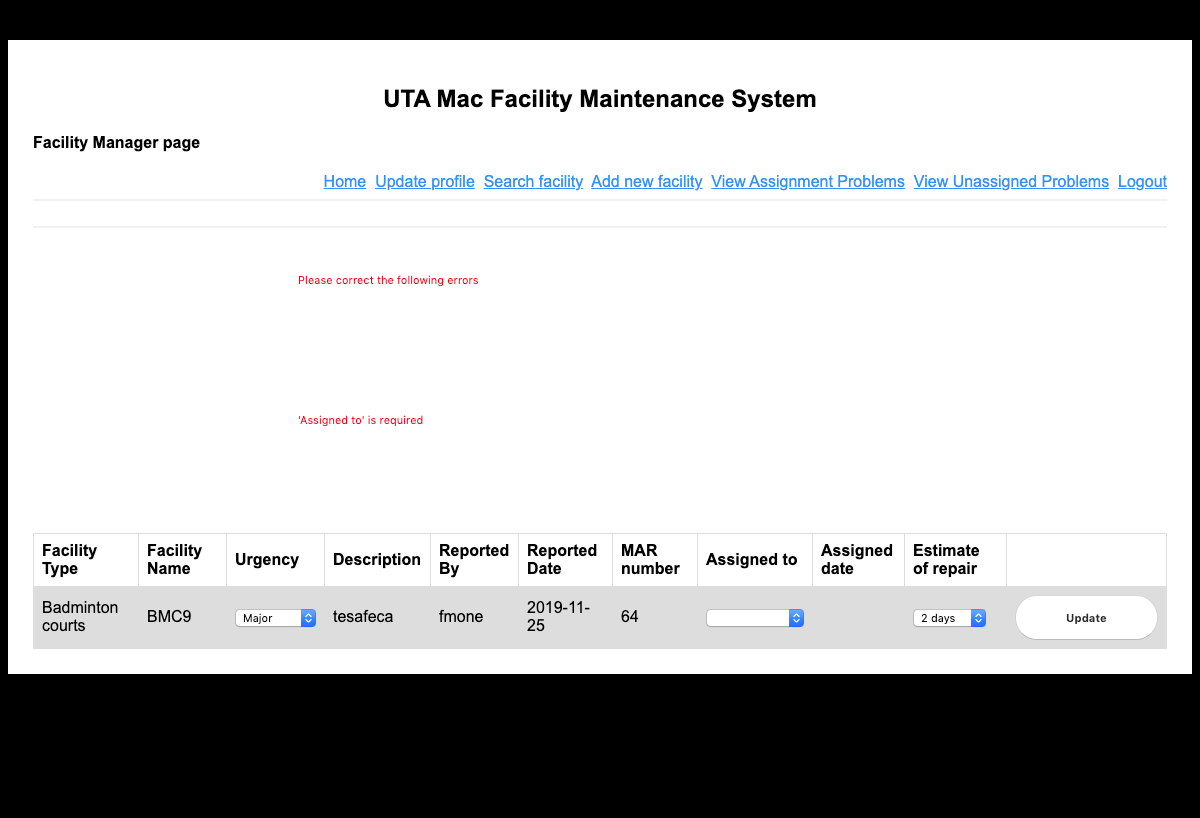
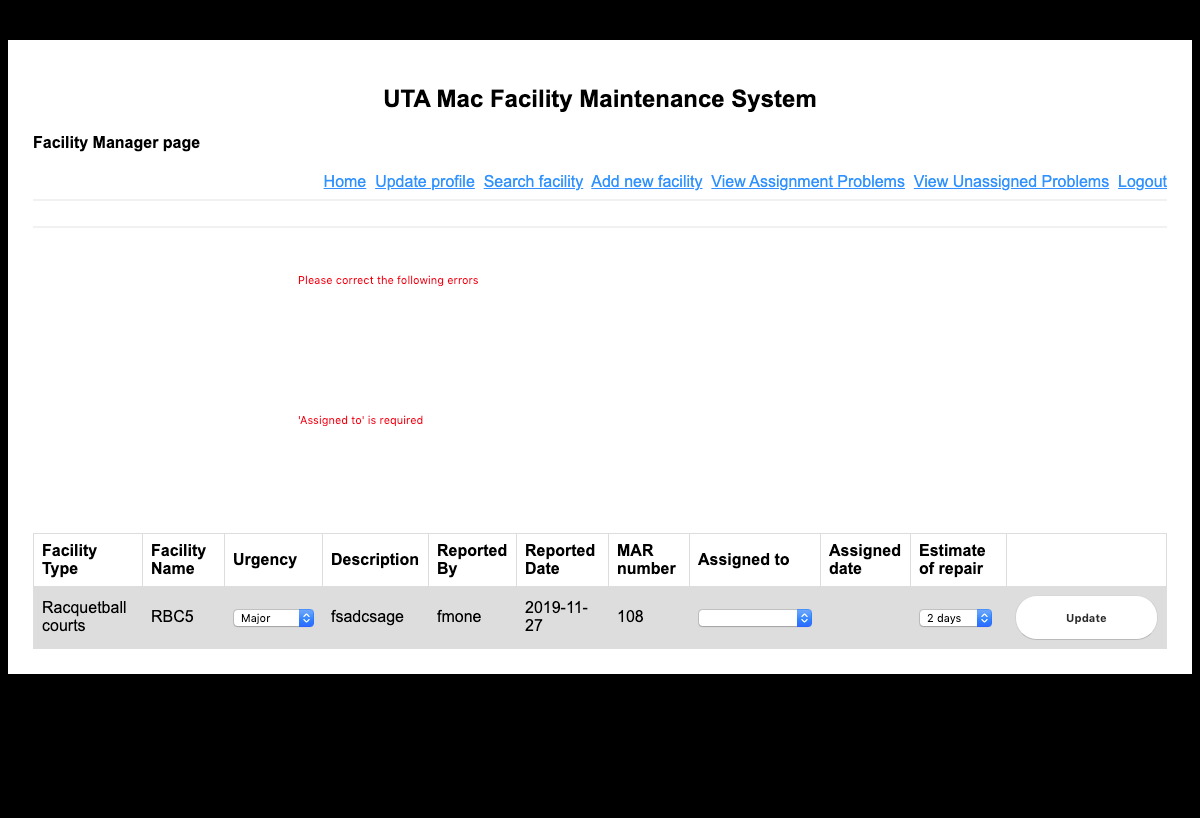
Facility manager A05/A06 combination

diff --git a/test/facility_maintenance/selenium/FacilityManagerTest.java b/test/facility_maintenance/selenium/FacilityManagerTest.java
@@ -42,7 +42,6 @@ public class FacilityManagerTest extends facility_maintenance.FMFunctions {
     prop.load(new FileInputStream(prop.getProperty("SharedUIMap")));
   }
 
-  /*
   @Test
   @FileParameters("./test/facility_maintenance/selenium/FM_registration.csv")
   public void Registration(int testcaseNum, 
@@ -63,6 +62,7 @@ public class FacilityManagerTest extends facility_maintenance.FMFunctions {
 	FM_Register(driver, username, pwd, "Facility Manager", utaid, firstName, lastName, email, phone, address, city, state, "FacilityManagerTest" + methodName + testcaseNum);
   }
 
+  /*
   @Test
   @FileParameters("./test/facility_maintenance/selenium/FM_verifyHomelink.csv")
   public void verifyAllLinks(int testcaseNum, String link, String title) throws Exception {
@@ -112,7 +112,6 @@ public class FacilityManagerTest extends facility_maintenance.FMFunctions {
   }
   */
 
-  /*
   @Test
   @FileParameters("./test/facility_maintenance/selenium/FM_assignMAR.csv")
   public void assignMAR(int testcaseNum, String repairer, String urgency, String estimate) throws Exception {
@@ -153,9 +152,7 @@ public class FacilityManagerTest extends facility_maintenance.FMFunctions {
 
     FM_Logout(driver);
   }  
-  */
 
-  /*
   @Test
   @FileParameters("./test/facility_maintenance/selenium/FM_assignMARToOther.csv")
 //  public void assignMARToOther(int testcaseNum, String time, String facilityName, String newRepairer) throws Exception {
@@ -166,16 +163,30 @@ public class FacilityManagerTest extends facility_maintenance.FMFunctions {
 
 	  driver.findElement(By.linkText(prop.getProperty("Txt_FM_ViewAssignedMAR"))).click();
 
+	  Thread.sleep(500);
 	  driver.findElement(By.name(prop.getProperty("Txt_FAM_Idx"))).clear();
+	  Thread.sleep(500);
 	  driver.findElement(By.name(prop.getProperty("Txt_FAM_Idx"))).sendKeys(MARIdx);
+	  Thread.sleep(500);
 
+	  String[] ds = date.split("-");
 	  Thread.sleep(1000);
 	  driver.findElement(By.name(prop.getProperty("Txt_FAM_AssignedDate"))).clear();
 	  Thread.sleep(1000);
-	  driver.findElement(By.name(prop.getProperty("Txt_FAM_AssignedDate"))).sendKeys(date);
+	  //driver.findElement(By.name(prop.getProperty("Txt_FAM_AssignedDate"))).sendKeys(date);
+	  if ( ds.length > 1 )
+	  {
+		  driver.findElement(By.name(prop.getProperty("Txt_FAM_AssignedDate"))).sendKeys(ds[0]);
+		  Thread.sleep(500);
+		  driver.findElement(By.name(prop.getProperty("Txt_FAM_AssignedDate"))).sendKeys(Keys.TAB);
+		  Thread.sleep(500);
+		  driver.findElement(By.name(prop.getProperty("Txt_FAM_AssignedDate"))).sendKeys(ds[1]);
+		  Thread.sleep(100);
+		  driver.findElement(By.name(prop.getProperty("Txt_FAM_AssignedDate"))).sendKeys(ds[2]);
+		  Thread.sleep(100);
+	  }
 	  //driver.findElement(By.name(prop.getProperty("Txt_FAM_AssignedDate"))).sendKeys("11/25/2019");
-	  System.out.println(date);
-	  Thread.sleep(2000);
+	  //System.out.println(date);
 
 //	  new Select(driver.findElement(By.name("assigntime"))).selectByVisibleText(time);
 	  new Select(driver.findElement(By.name(prop.getProperty("Txt_FAM_AssignedTime")))).selectByVisibleText(time);
@@ -197,11 +208,14 @@ public class FacilityManagerTest extends facility_maintenance.FMFunctions {
 	  driver.findElement(By.linkText(prop.getProperty("Txt_UAM_View"))).click();
 
 	  new Select(driver.findElement(By.name(prop.getProperty("Lst_MM_Repairer")))).selectByVisibleText(newRepairer);
+
+	  String methodName = new Throwable().getStackTrace()[0].getMethodName();
+	  takeScreenshot(driver, "FacilityManagerTest" + methodName + testcaseNum);
+
 	  driver.findElement(By.cssSelector(prop.getProperty("Btn_MM_Submit"))).click();
 
 	  FM_Logout(driver);
   }
-  */
 
   @Test
   @FileParameters("./test/facility_maintenance/selenium/FM_searchFacility.csv")
@@ -217,12 +231,13 @@ public class FacilityManagerTest extends facility_maintenance.FMFunctions {
 	  Thread.sleep(500);
 	  driver.findElement(By.cssSelector(prop.getProperty("Btn_SF_Submit"))).click();
 	  Thread.sleep(500);
+	  String methodName = new Throwable().getStackTrace()[0].getMethodName();
+	  takeScreenshot(driver, "FacilityManagerTest" + methodName + testcaseNum);
 	  driver.navigate().back();
 	  //driver.findElement(By.linkText("Logout")).click();
 	  FM_Logout(driver);
   }
 
-  /*
   @Test
   @FileParameters("./test/facility_maintenance/selenium/FM_addFacility.csv")
   public void addFacility(int testcaseNum, String facilityName, String number, String interval, String duration) throws Exception {
@@ -239,6 +254,8 @@ public class FacilityManagerTest extends facility_maintenance.FMFunctions {
 	  new Select(driver.findElement(By.name(prop.getProperty("Txt_ANF_Interval")))).selectByVisibleText(interval);
 //	  new Select(driver.findElement(By.name("duration"))).selectByVisibleText("4 days");
 	  new Select(driver.findElement(By.name(prop.getProperty("Txt_ANF_Duration")))).selectByVisibleText(duration);
+	  String methodName = new Throwable().getStackTrace()[0].getMethodName();
+	  takeScreenshot(driver, "FacilityManagerTest" + methodName + testcaseNum);
 	  driver.findElement(By.cssSelector(prop.getProperty("Btn_ANF_Submit"))).click();
 
 	  driver.navigate().back();
@@ -246,7 +263,6 @@ public class FacilityManagerTest extends facility_maintenance.FMFunctions {
 	  Thread.sleep(100);
 	  FM_Logout(driver);
   }
-  */
 
   @After
   public void tearDown() throws Exception {
